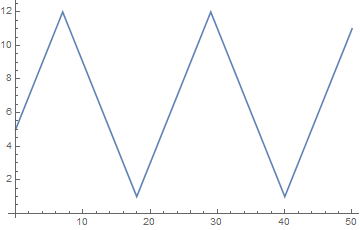
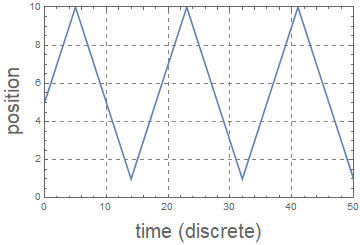
Another edit
Reformated Fig3; edited the readme; edited the notebook file

diff --git a/Homework/readme.md b/Homework/readme.md
@@ -66,6 +66,6 @@ posn[pos_Integer, v_Integer, posmax_Integer, t_Integer] :=
 In order to understand the above function we can plot it as a function of time steps. Below
 we plot it for the first 50 time steps:
 ```
-ListLinePlot[Table[{n, posn[5, 1, 12, n]}, {n, 0, 50}]]
+ListLinePlot[Table[{n, posn[5, 1, 10, n]}, {n, 0, 50}]]
 ```
 ![position_vs_time plot](Fig3.png)
